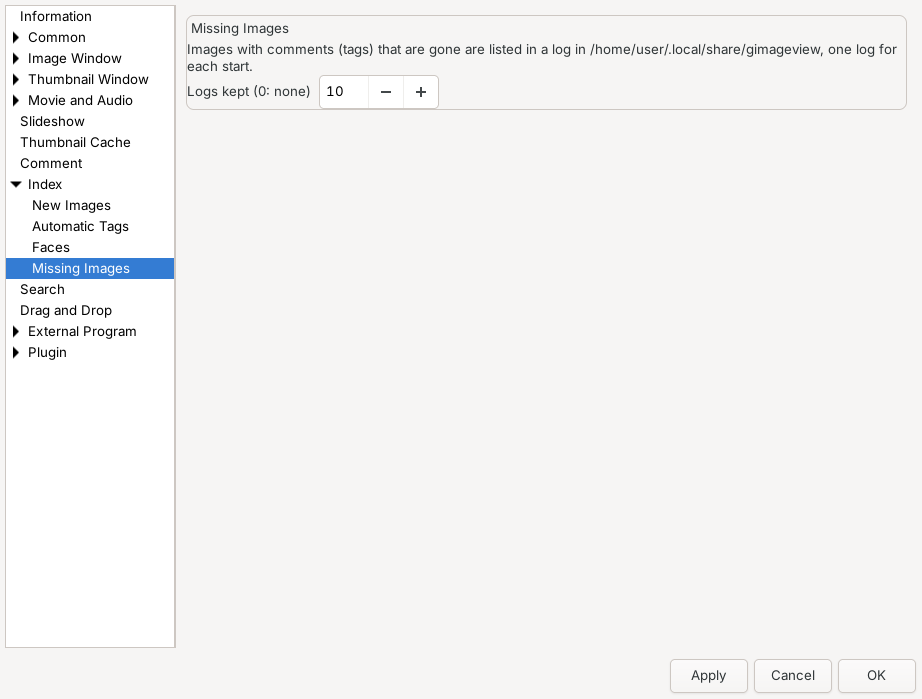
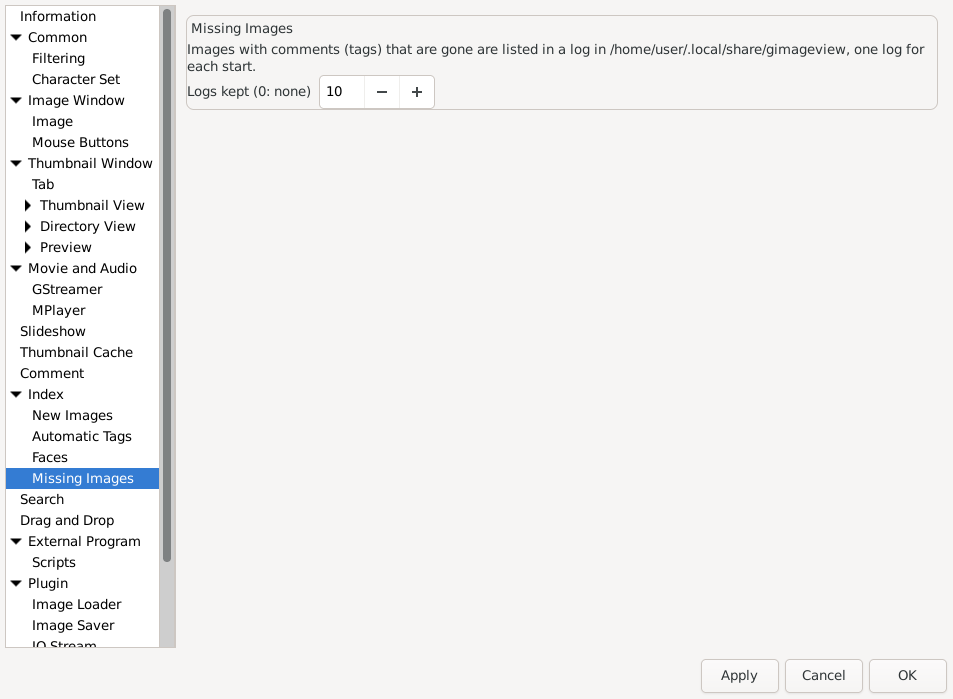
Manual: today's screenshots taken again with the fonts of the others
The pictures taken today showed Japanese in WenQuanYi Zen Hei (a
Chinese font) and Latin in Inter; the rest of the manual has Noto Sans
CJK JP and DejaVu Sans.  The index, faces, search, Tools menu and
preferences pictures are taken again with those, the preferences with
the top rows of the tree open as in the others.

diff --git a/doc/ja/06.html b/doc/ja/06.html
@@ -33,7 +33,7 @@
 <div class="sect2">
 <div class="titlepage"><div><h3 class="title">
 <a name="06-01"></a>6.1. 一般</h3></div></div>
-<div class="figure"><img src="images/prefs_general.png" width="775" height="699" alt="[設定 | 一般] (既定の設定)">
+<div class="figure"><img src="images/prefs_general.png" width="756" height="744" alt="[設定 | 一般] (既定の設定)">
 <p class="caption">[設定 | 一般] (既定の設定)</p></div>
 <div class="variablelist"><dl>
 <dt><span class="term"><a name="File_Open_Window"></a>ファイルを開くウィンドウ</span></dt>
@@ -653,7 +653,7 @@ GTK 4 版では、コメントの「題名」と「コメント」(メモ欄の 
 <div class="sect2">
 <div class="titlepage"><div><h3 class="title">
 <a name="06-06"></a>6.6. サムネイルキャッシュ</h3></div></div>
-<div class="figure"><img src="images/prefs_cache.png" width="775" height="699" alt="[設定 | サムネイルキャッシュ] (既定の設定)">
+<div class="figure"><img src="images/prefs_cache.png" width="756" height="744" alt="[設定 | サムネイルキャッシュ] (既定の設定)">
 <p class="caption">[設定 | サムネイルキャッシュ] (既定の設定)</p></div>
 <p class="para">
 キャッシュについて、読込、書込のファイル形式を指定します。
@@ -806,35 +806,35 @@ GImageView が検索する、プラグインのディレクトリパスを指定
 <dd><p class="para">
 「画像の索引を作り、日付で見られるようにする」と「索引を作るディレクトリ」です。指定したディレクトリの下の画像が索引の対象になります。
 </p>
-<div class="figure"><img src="images/prefs_index.png" width="775" height="699" alt="[設定 | 索引]">
+<div class="figure"><img src="images/prefs_index.png" width="756" height="744" alt="[設定 | 索引]">
 <p class="caption">[設定 | 索引]</p></div>
 </dd>
 <dt><span class="term"><a name="Index_newimg"></a>索引 | 新しい画像</span></dt>
 <dd><p class="para">
 新しい画像をデスクトップに通知するかどうか、まとめて通知するまでの待ち時間、通知の最小間隔、通知の表示時間、通知しないフォルダです。通知の出る場所は、デスクトップの通知の設定によります。
 </p>
-<div class="figure"><img src="images/prefs_index_newimg.png" width="775" height="699" alt="[設定 | 索引 | 新しい画像]">
+<div class="figure"><img src="images/prefs_index_newimg.png" width="756" height="744" alt="[設定 | 索引 | 新しい画像]">
 <p class="caption">[設定 | 索引 | 新しい画像]</p></div>
 </dd>
 <dt><span class="term"><a name="Index_auto"></a>索引 | 自動タグ</span></dt>
 <dd><p class="para">
 自動で付けるタグの種類 (フォルダ名、カメラ、形) と、タグにしないフォルダ名 (「*」は任意の文字列、「?」は任意の 1 文字。大文字と小文字は区別しません) です。カメラや形をオンにすると全ての画像を読み直すので、画像が多いと時間がかかります。
 </p>
-<div class="figure"><img src="images/prefs_index_auto.png" width="775" height="699" alt="[設定 | 索引 | 自動タグ]">
+<div class="figure"><img src="images/prefs_index_auto.png" width="756" height="744" alt="[設定 | 索引 | 自動タグ]">
 <p class="caption">[設定 | 索引 | 自動タグ]</p></div>
 </dd>
 <dt><span class="term"><a name="Index_faces"></a>索引 | 顔</span></dt>
 <dd><p class="para">
 顔を認識するフォルダ (索引を作るディレクトリの中) と、モデルファイルの場所です。モデルファイルが見つからない場合は、置き場所と入手先 (URL) を表示します。顔の認識が使える場合だけの項目です。
 </p>
-<div class="figure"><img src="images/prefs_index_faces.png" width="775" height="699" alt="[設定 | 索引 | 顔]">
+<div class="figure"><img src="images/prefs_index_faces.png" width="756" height="744" alt="[設定 | 索引 | 顔]">
 <p class="caption">[設定 | 索引 | 顔]</p></div>
 </dd>
 <dt><span class="term"><a name="Index_missing"></a>索引 | 行方不明の画像</span></dt>
 <dd><p class="para">
 コメント (タグ) の付いた画像が見つからなくなったときのログを、いくつ残すかです (0 は作りません)。
 </p>
-<div class="figure"><img src="images/prefs_index_missing.png" width="775" height="699" alt="[設定 | 索引 | 行方不明の画像]">
+<div class="figure"><img src="images/prefs_index_missing.png" width="756" height="744" alt="[設定 | 索引 | 行方不明の画像]">
 <p class="caption">[設定 | 索引 | 行方不明の画像]</p></div>
 </dd>
 </dl></div>

diff --git a/doc/en/06.html b/doc/en/06.html
@@ -33,7 +33,7 @@ This section describes the items of the preferences dialog.
 <div class="sect2">
 <div class="titlepage"><div><h3 class="title">
 <a name="06-01"></a>6.1. Common</h3></div></div>
-<div class="figure"><img src="images/prefs_general.png" width="922" height="699" alt="[Preferences | Common] (default settings)">
+<div class="figure"><img src="images/prefs_general.png" width="953" height="699" alt="[Preferences | Common] (default settings)">
 <p class="caption">[Preferences | Common] (default settings)</p></div>
 <div class="variablelist"><dl>
 <dt><span class="term"><a name="File_Open_Window"></a>File Open Window</span></dt>
@@ -649,7 +649,7 @@ When "Use specified color" is checked, the background of the slideshow is painte
 <div class="sect2">
 <div class="titlepage"><div><h3 class="title">
 <a name="06-06"></a>6.6. Thumbnail Cache</h3></div></div>
-<div class="figure"><img src="images/prefs_cache.png" width="922" height="699" alt="[Preferences | Thumbnail Cache] (default settings)">
+<div class="figure"><img src="images/prefs_cache.png" width="953" height="699" alt="[Preferences | Thumbnail Cache] (default settings)">
 <p class="caption">[Preferences | Thumbnail Cache] (default settings)</p></div>
 <p class="para">
 The file formats of the thumbnail cache for reading and writing.
@@ -802,35 +802,35 @@ The image index (<a href="02.html#02-02">2.2</a>) and face recognition (<a href=
 <dd><p class="para">
 "Index images by date" and "Directories to index": the images below these directories are indexed.
 </p>
-<div class="figure"><img src="images/prefs_index.png" width="922" height="699" alt="[Preferences | Index]">
+<div class="figure"><img src="images/prefs_index.png" width="953" height="699" alt="[Preferences | Index]">
 <p class="caption">[Preferences | Index]</p></div>
 </dd>
 <dt><span class="term"><a name="Index_newimg"></a>Index | New Images</span></dt>
 <dd><p class="para">
 Whether new images are notified on the desktop, how long they are gathered into one notification, the interval between two notifications, how long one is shown, and the folders not to notify. Where the notifications appear is set in the desktop's notification settings.
 </p>
-<div class="figure"><img src="images/prefs_index_newimg.png" width="922" height="699" alt="[Preferences | Index | New Images]">
+<div class="figure"><img src="images/prefs_index_newimg.png" width="953" height="699" alt="[Preferences | Index | New Images]">
 <p class="caption">[Preferences | Index | New Images]</p></div>
 </dd>
 <dt><span class="term"><a name="Index_auto"></a>Index | Automatic Tags</span></dt>
 <dd><p class="para">
 The kinds of automatic tags (folder name, camera, shape) and the folder names not made tags ("*" matches any letters, "?" one; capitals and small letters are the same). Turning the camera or the shape on reads every image again, which takes long with many images.
 </p>
-<div class="figure"><img src="images/prefs_index_auto.png" width="922" height="699" alt="[Preferences | Index | Automatic Tags]">
+<div class="figure"><img src="images/prefs_index_auto.png" width="953" height="699" alt="[Preferences | Index | Automatic Tags]">
 <p class="caption">[Preferences | Index | Automatic Tags]</p></div>
 </dd>
 <dt><span class="term"><a name="Index_faces"></a>Index | Faces</span></dt>
 <dd><p class="para">
 The folders to find faces in (inside the directories to index), and where the model files are. When they are not found, where to put them and where to get them (URLs) are shown. Only with face recognition.
 </p>
-<div class="figure"><img src="images/prefs_index_faces.png" width="922" height="699" alt="[Preferences | Index | Faces]">
+<div class="figure"><img src="images/prefs_index_faces.png" width="953" height="699" alt="[Preferences | Index | Faces]">
 <p class="caption">[Preferences | Index | Faces]</p></div>
 </dd>
 <dt><span class="term"><a name="Index_missing"></a>Index | Missing Images</span></dt>
 <dd><p class="para">
 How many logs of the images with comments (tags) that went missing are kept (0: none).
 </p>
-<div class="figure"><img src="images/prefs_index_missing.png" width="922" height="699" alt="[Preferences | Index | Missing Images]">
+<div class="figure"><img src="images/prefs_index_missing.png" width="953" height="699" alt="[Preferences | Index | Missing Images]">
 <p class="caption">[Preferences | Index | Missing Images]</p></div>
 </dd>
 </dl></div>

diff --git a/doc/en/03.html b/doc/en/03.html
@@ -503,7 +503,7 @@ Moves the keyboard focus to the Directory View [Shift + Alt + D], the Thumbnail 
 <div class="sect2">
 <div class="titlepage"><div><h3 class="title">
 <a name="03-06"></a>3.6. Tools</h3></div></div>
-<div class="figure"><img src="images/menu_tools.png" width="400" height="220" alt="The Tools menu of the thumbnail window">
+<div class="figure"><img src="images/menu_tools.png" width="400" height="222" alt="The Tools menu of the thumbnail window">
 <p class="caption">The Tools menu of the thumbnail window</p></div>
 <p class="para">
 This menu exists only in the thumbnail window.
